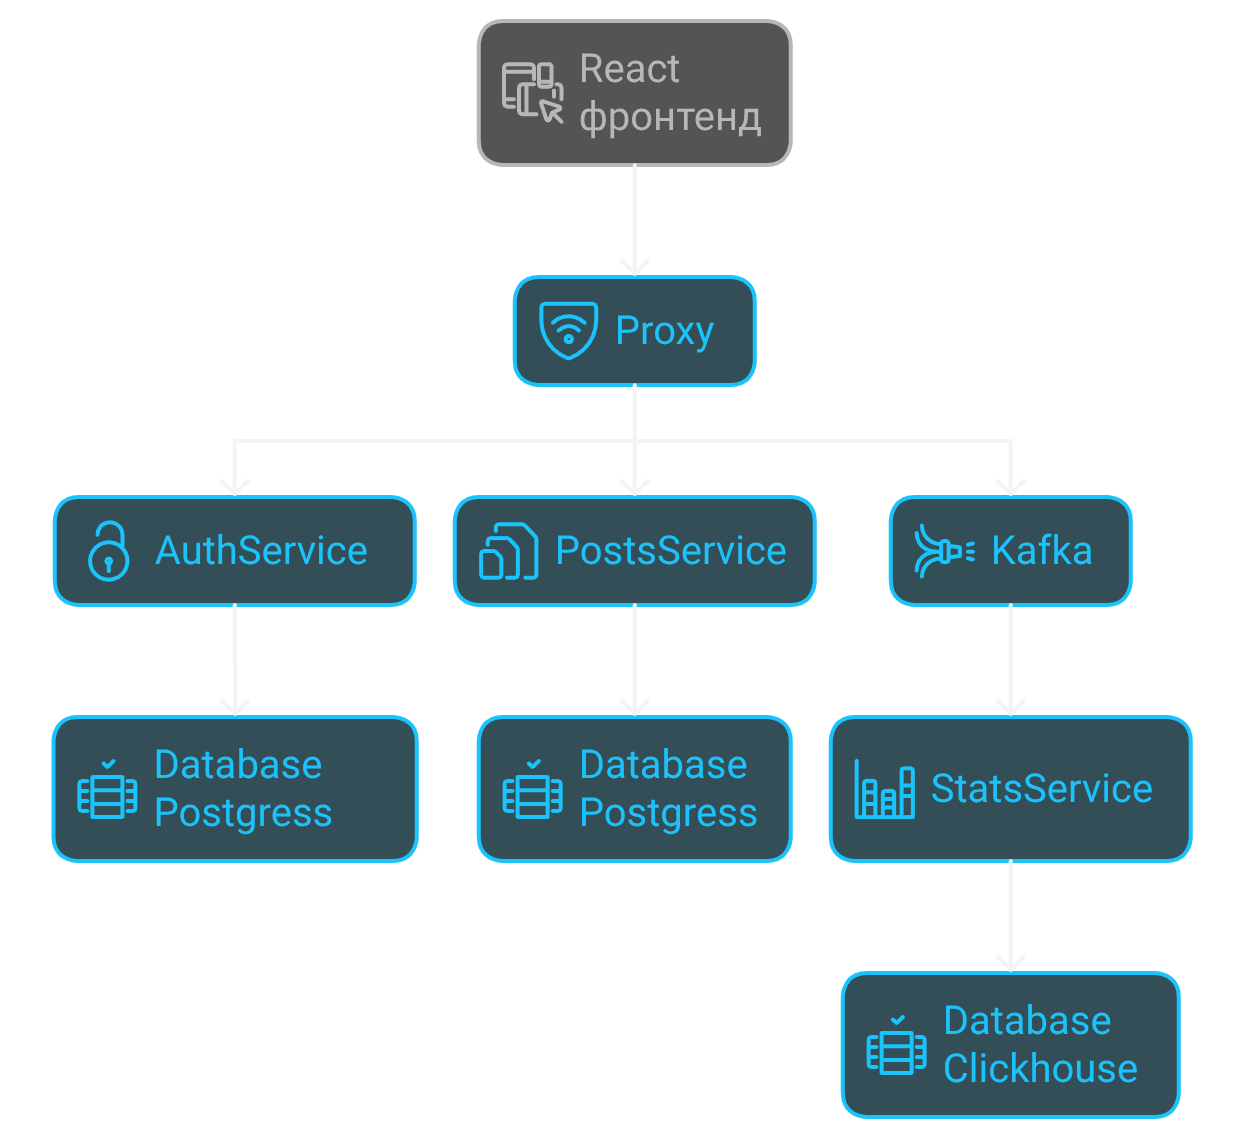
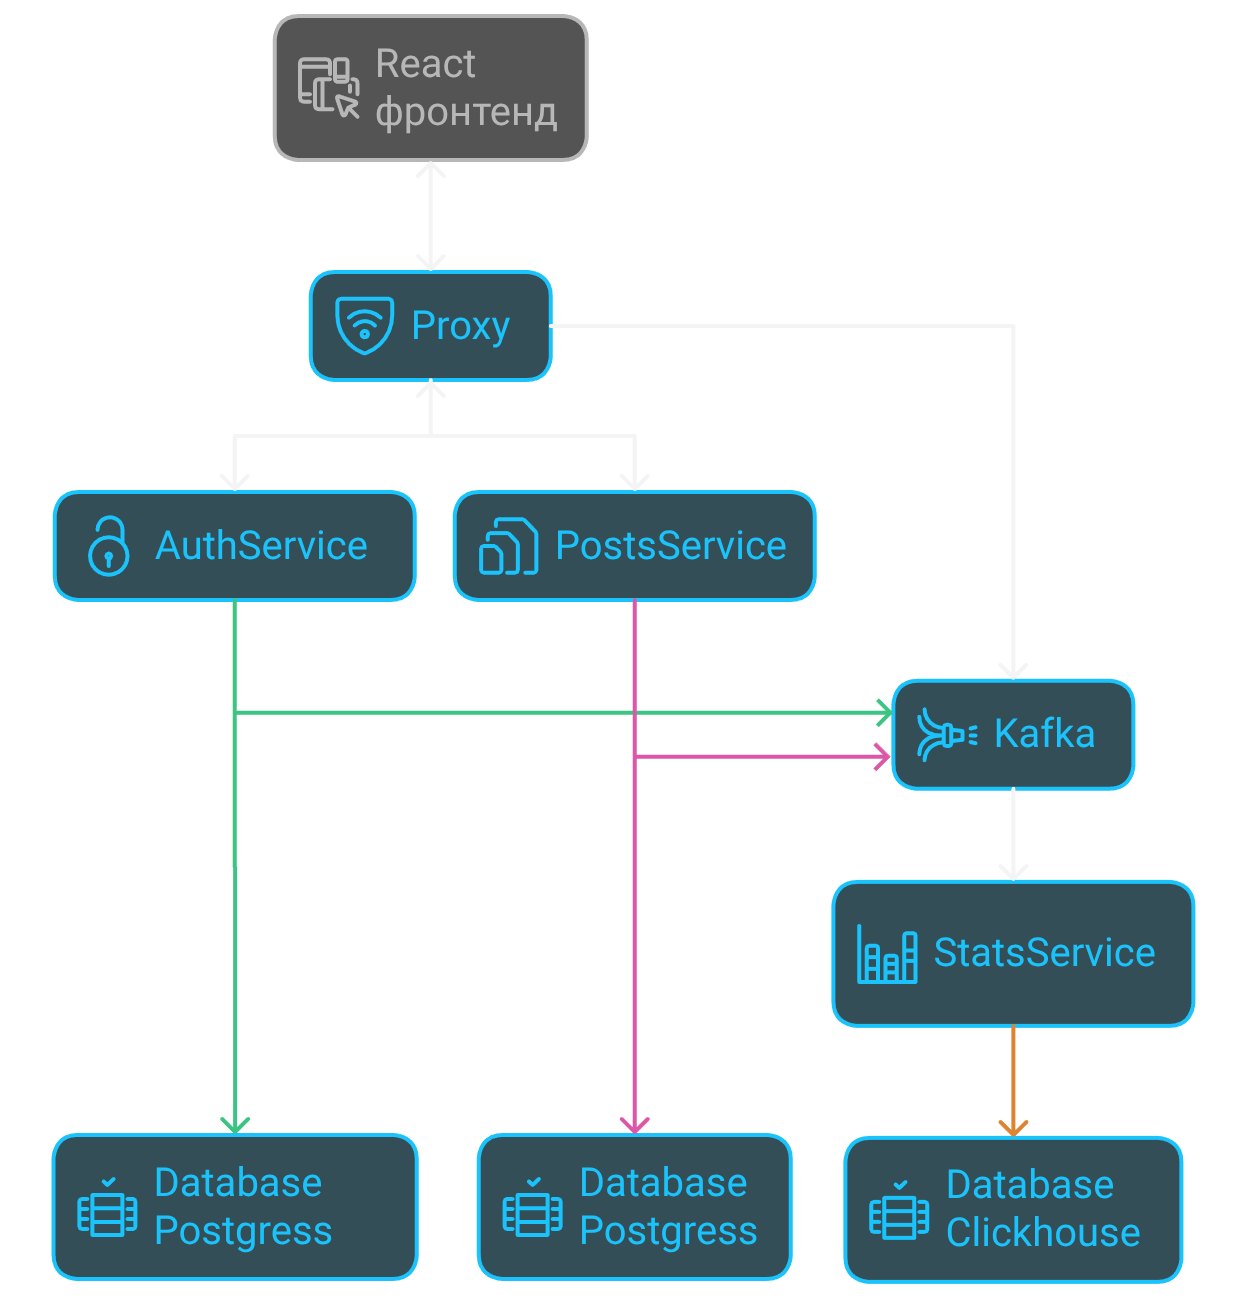
Обновление readme

diff --git a/README.md b/README.md
@@ -15,7 +15,80 @@
 ## О проекте
 Микросервисное приложение, построенное на FastAPI, с поддержкой функций аутентификации, публикации постов и комментариев, сбора статистических данных а также интеграцией с фронтендом на React. Для тестирования предусмотрена возможность генерации синтетических данных.
 
-## Схема приложения
-![Схема приложения](src/schema.png)
+## Технологии
+![Python](https://img.shields.io/badge/Python-3.12-3776AB?style=flat&logo=python)
+![FastAPI](https://img.shields.io/badge/FastAPI-0.115.0-009688?style=flat&logo=fastapi)
+![SQLAlchemy](https://img.shields.io/badge/SQLAlchemy-2.0.30-FFCA28?style=flat&logo=sqlalchemy)
+![PostgreSQL](https://img.shields.io/badge/PostgreSQL-16.2-336791?style=flat&logo=postgresql)
+![gRPC](https://img.shields.io/badge/gRPC-1.71.0-6DB33F?style=flat&logo=grpc)
+![Kafka](https://img.shields.io/badge/Kafka-3.7.0-231F20?style=flat&logo=apachekafka)
+![ClickHouse](https://img.shields.io/badge/ClickHouse-23.3-FFD700?style=flat&logo=clickhouse)
+![asyncio](https://img.shields.io/badge/asyncio-3.4.3-3776AB?style=flat)
+![Pydantic](https://img.shields.io/badge/Pydantic-2.7.1-0E7C86?style=flat&logo=pydantic)
+![Alembic](https://img.shields.io/badge/Alembic-1.13.1-45B8D8?style=flat)
+![Pytest](https://img.shields.io/badge/Pytest-8.2.2-0A9EDC?style=flat&logo=pytest)
 
+![JavaScript](https://img.shields.io/badge/JavaScript-ES2023-F7DF1E?style=flat&logo=javascript)
+![React](https://img.shields.io/badge/React-18.2.0-61DAFB?style=flat&logo=react)
+
+
+## Схема приложения
+![Схема приложения](src/scheme.png)
+
+## Описание основных компонентов
+
+### ProxyService
+**Основные возможности:**
+- Является API Gateway для всех микросервисов.
+- Маршрутизирует HTTP-запросы пользователей к нужным сервисам (Auth, Posts, Stats).
+- Реализует базовую аутентификацию: проверяет наличие и валидность токена пользователя.
+- Обеспечивает единый вход для фронтенда и внешних клиентов.
+
+### Взаимосвязи:
+- Получает запросы от фронтенда/клиентов.
+- Перенаправляет запросы на Auth, Posts, Stats в зависимости от типа запроса.
+- Может обращаться к Kafka для логирования событий или сбора метрик.
+
+### Auth
+**Основные возможности:**
+- Регистрация новых пользователей.
+- Аутентификация (логин) и выдача токенов доступа.
+- Валидация токенов при каждом запросе.
+- Обновление профиля пользователя.
+- Хранение и управление пользовательскими данными.
+- Может поддерживать refresh-токены и logout.
+
+**Взаимосвязи:**
+- Получает запросы от Proxy (например, регистрация, логин).
+- Проверяет токены для других сервисов (Posts, Stats) через Proxy.
+- Может публиковать события в Kafka (например, "user_registered").
+- Может обращаться к базе данных пользователей.
+
+### Posts
+**Основные возможности:**
+-Создание, редактирование и удаление постов.
+-Получение списка постов.
+-Добавление и удаление комментариев к постам.
+-Получение комментариев к конкретному посту.
+-Может поддерживать лайки, репосты и другие действия.
+-Хранение постов и комментариев.
+
+### Взаимосвязи:
+- Получает запросы от Proxy (например, создать пост, получить фид).
+- Проверяет права пользователя через Proxy/Auth (например, может ли пользователь создать пост).
+- Может публиковать события в Kafka (например, "post_created", "comment_added").
+- Может обращаться к Stats для обновления статистики (например, количество постов).
+
+### Stats
+**Основные возможности:**
+- Сбор и хранение статистики по действиям пользователей (количество постов, комментариев, лайков и т.д.).
+- Предоставление агрегированных данных для фронтенда (например, топ-10 пользователей, активность по дням).
+- Аналитика по использованию платформы.
+- Может поддерживать экспорт данных.
+
+**Взаимосвязи:**
+- Получает события из Kafka от других сервисов (Posts, Auth).
+- Отвечает на запросы Proxy (например, "показать статистику пользователя").
+- Может обращаться к базе данных статистики.
+- Может отправлять уведомления или отчёты другим сервисам.
 
